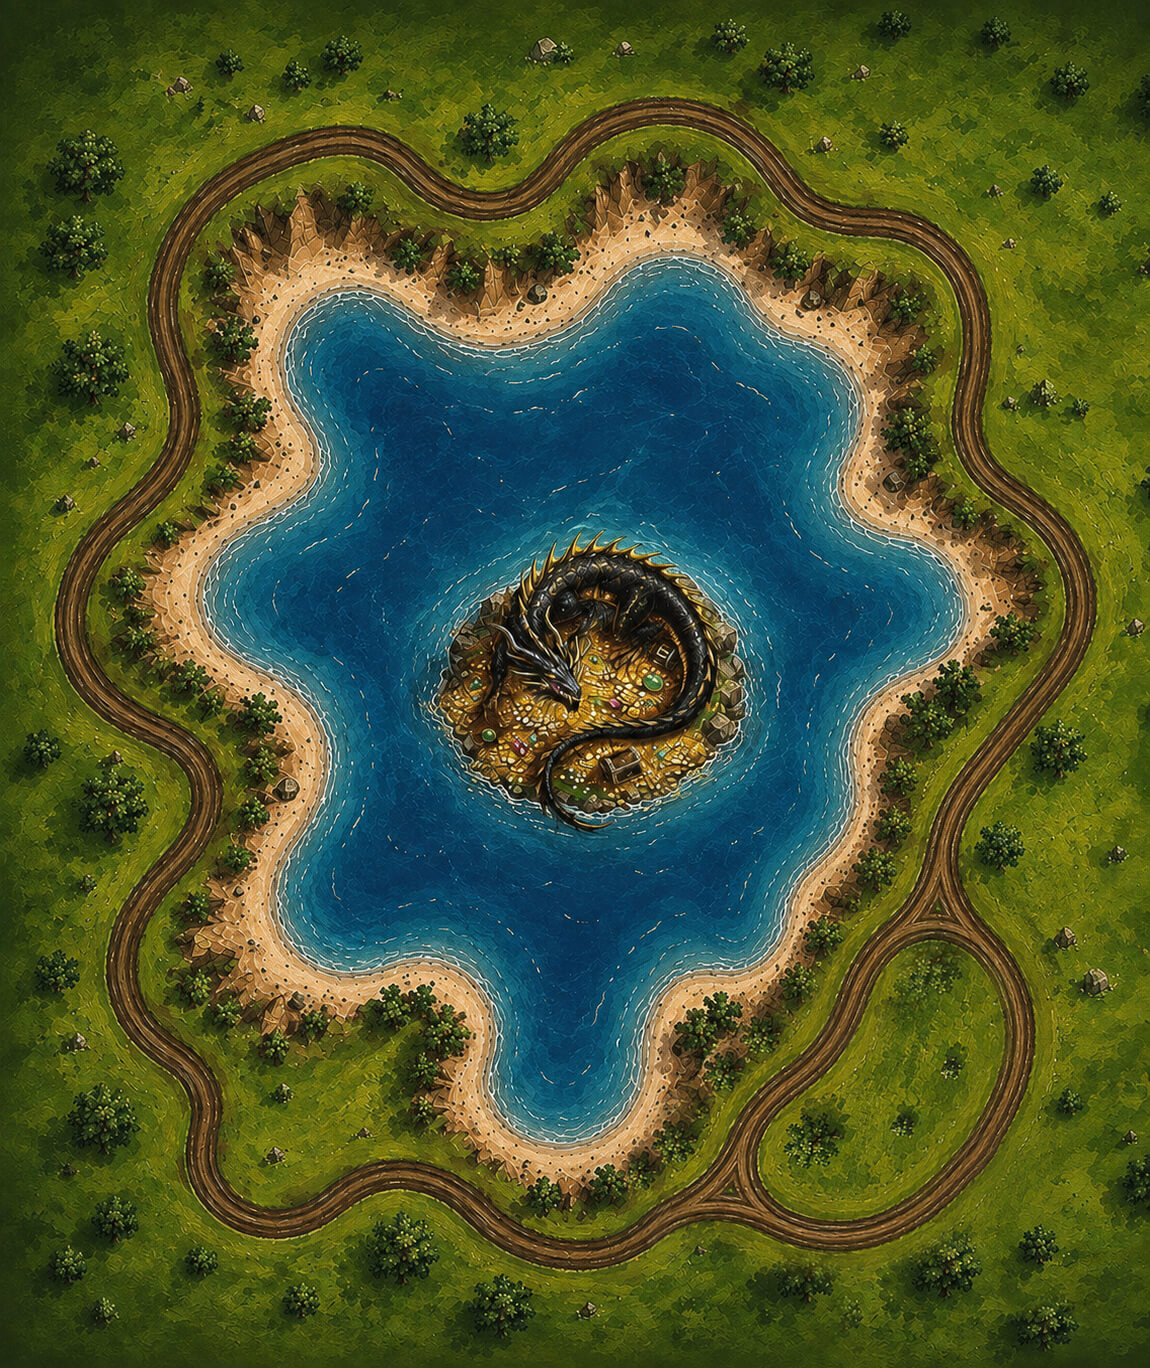
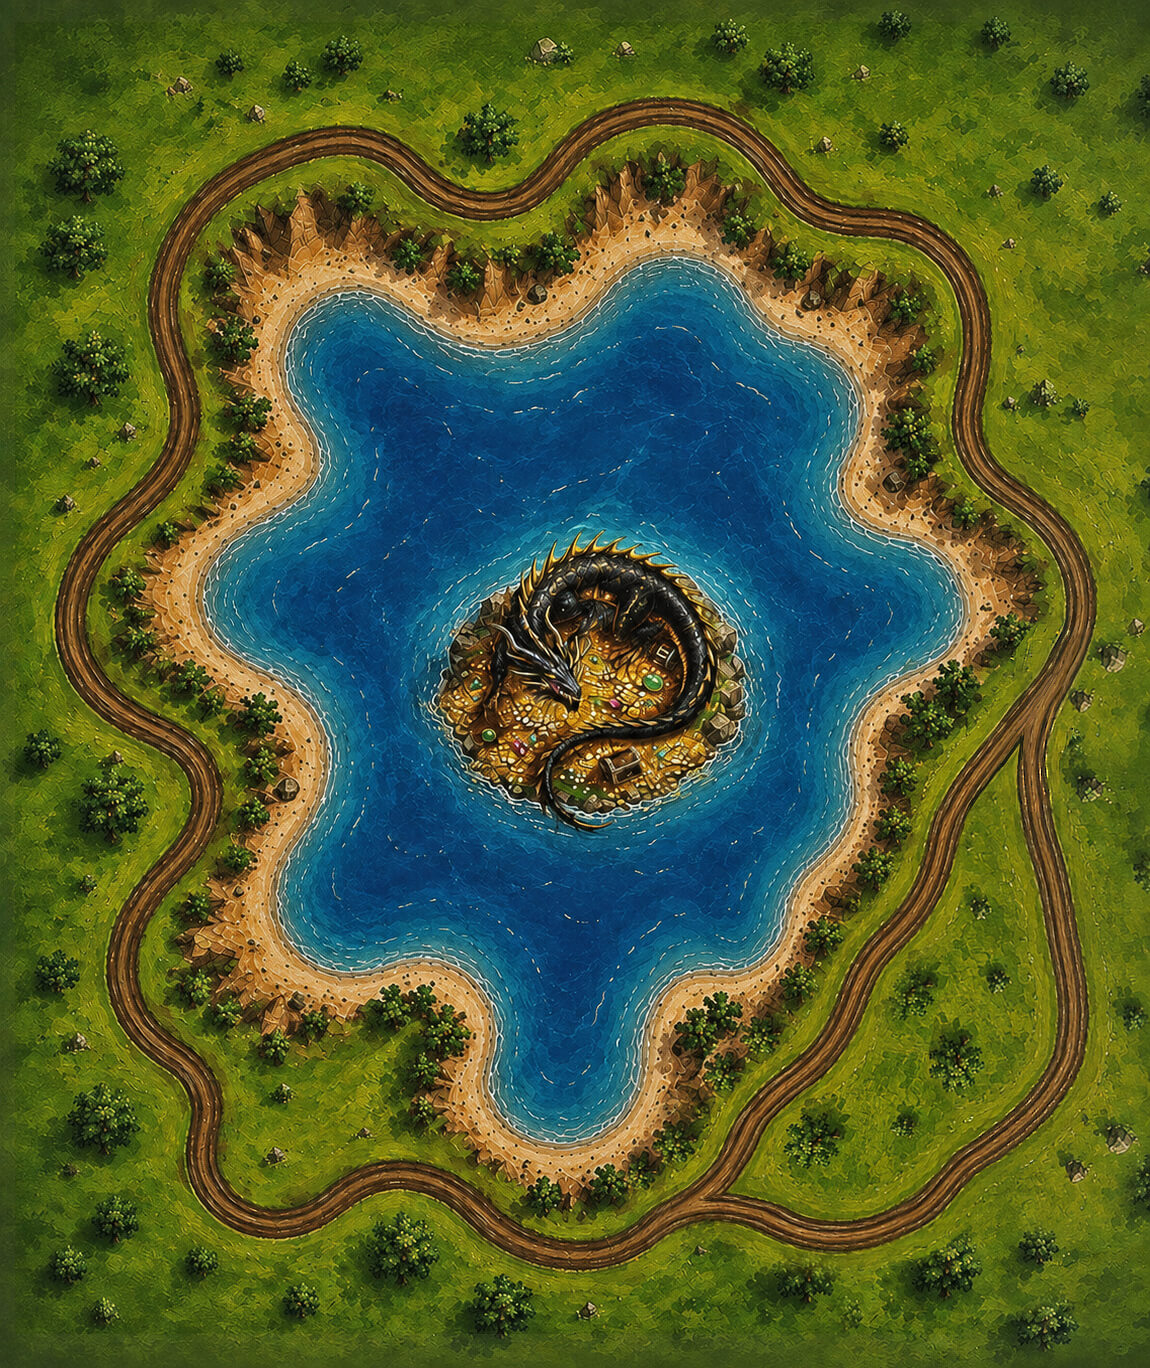
map update, bigger fork, stables

diff --git a/src/components/board/layout.ts b/src/components/board/layout.ts
@@ -21,6 +21,7 @@ export function buildTileLayoutFromTemplates(allTemplates: any[]): (any | undefi
   const portal = byId('portal');
   const ruins = byId('ruins');
   const tower = byId('cannon-tower');
+  const stables = byId('stables');
 
   if (!kingCastle) throw new Error('King Castle tile not found');
   if (!treasure) throw new Error('Treasure tile not found');
@@ -30,6 +31,7 @@ export function buildTileLayoutFromTemplates(allTemplates: any[]): (any | undefi
   if (!sphynx) throw new Error('Sphynx tile not found');
   if (!portal) throw new Error('Portal tile not found');
   if (!ruins) throw new Error('Ruins tile not found');
+  if (!stables) throw new Error('Stables tile not found');
   if (!tower) throw new Error('Cannon Tower tile not found');
 
   const slots: (any | undefined)[] = new Array(TILE_COUNT).fill(undefined);
@@ -39,9 +41,10 @@ export function buildTileLayoutFromTemplates(allTemplates: any[]): (any | undefi
     [8, joker],
     [9, treasure],
     [10, ruins],
-    [11, tower],
+    [11, stables],
+    [12, tower],
     [13, sphynx],
-    [15, prison],
+    [16, prison],
     [18, portal],
     [21, tavern],
     [25, treasure],
@@ -50,7 +53,18 @@ export function buildTileLayoutFromTemplates(allTemplates: any[]): (any | undefi
     slots[idx] = tpl;
   });
 
-  const fixedSet = new Set([kingCastle, prison, treasure, tavern, sphynx, joker, portal, ruins, tower]);
+  const fixedSet = new Set([
+    kingCastle,
+    prison,
+    treasure,
+    tavern,
+    sphynx,
+    joker,
+    portal,
+    ruins,
+    stables,
+    tower,
+  ]);
   const pool = allTemplates.filter((t) => !fixedSet.has(t));
 
   // Group pool tiles by group name, sort each group cheapest first

diff --git a/src/game/constants.ts b/src/game/constants.ts
@@ -4,7 +4,7 @@ export const MONEY_PASS_START = 3500;
 export const UNITS_PASS_START = 12;
 export const FEE_MULTIPLIER = 50;
 export const TREASURE_BOX_MULTIPLIER = 200;
-export const TILE_COUNT = 26;
+export const TILE_COUNT = 28;
 export const MAX_PLAYERS = 6;
 export const REVEAL_GOLD_PER_CIRCLE = 250; // discovery bonus scales with the player's laps around the board
 // Board fork (map13): leaving FORK_START_INDEX branches onto either the

diff --git a/src/utils/mapEditStore.ts b/src/utils/mapEditStore.ts
@@ -12,8 +12,8 @@ interface MapEditState {
 // place here, then a store emit() forces a re-render that picks up the new
 // values (same live-mutation pattern as `slots` below for tile positions).
 export const playerIconOffset = {
-  anchorXPct: 11.5,
-  anchorYPct: 12.5,
+  anchorXPct: 11.0,
+  anchorYPct: 10.5,
   clusterStepPct: 4,
 };
 
